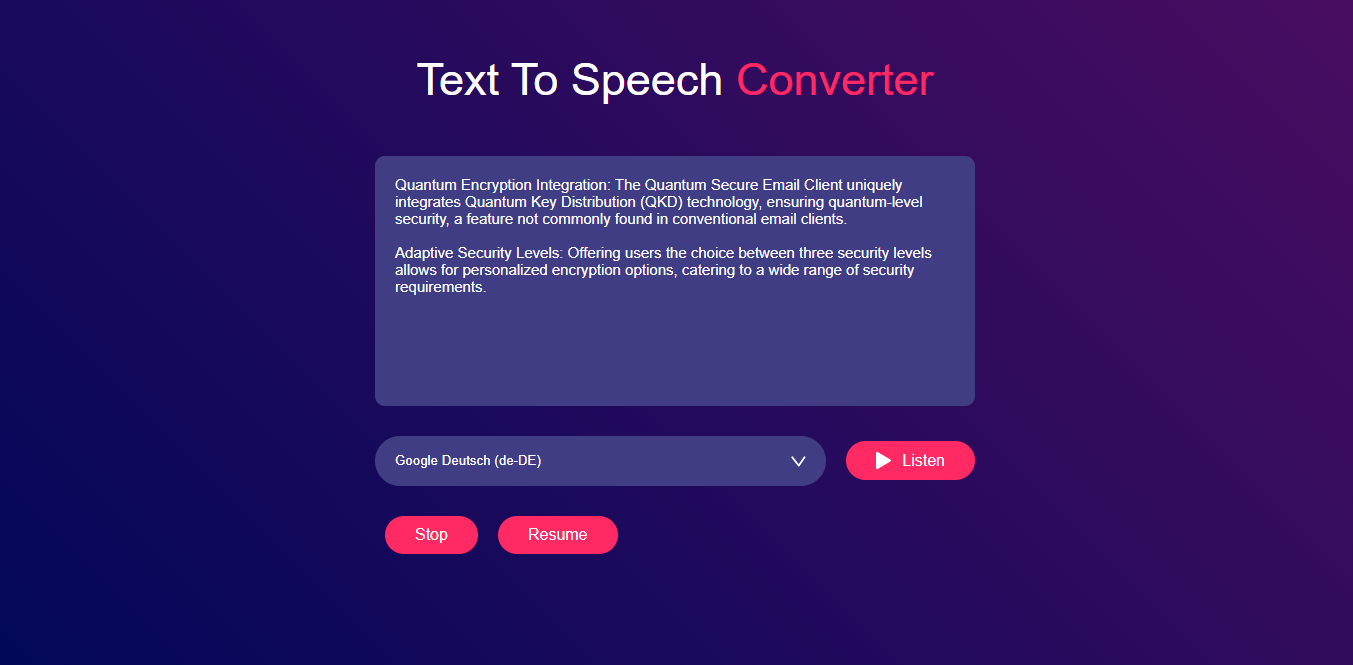
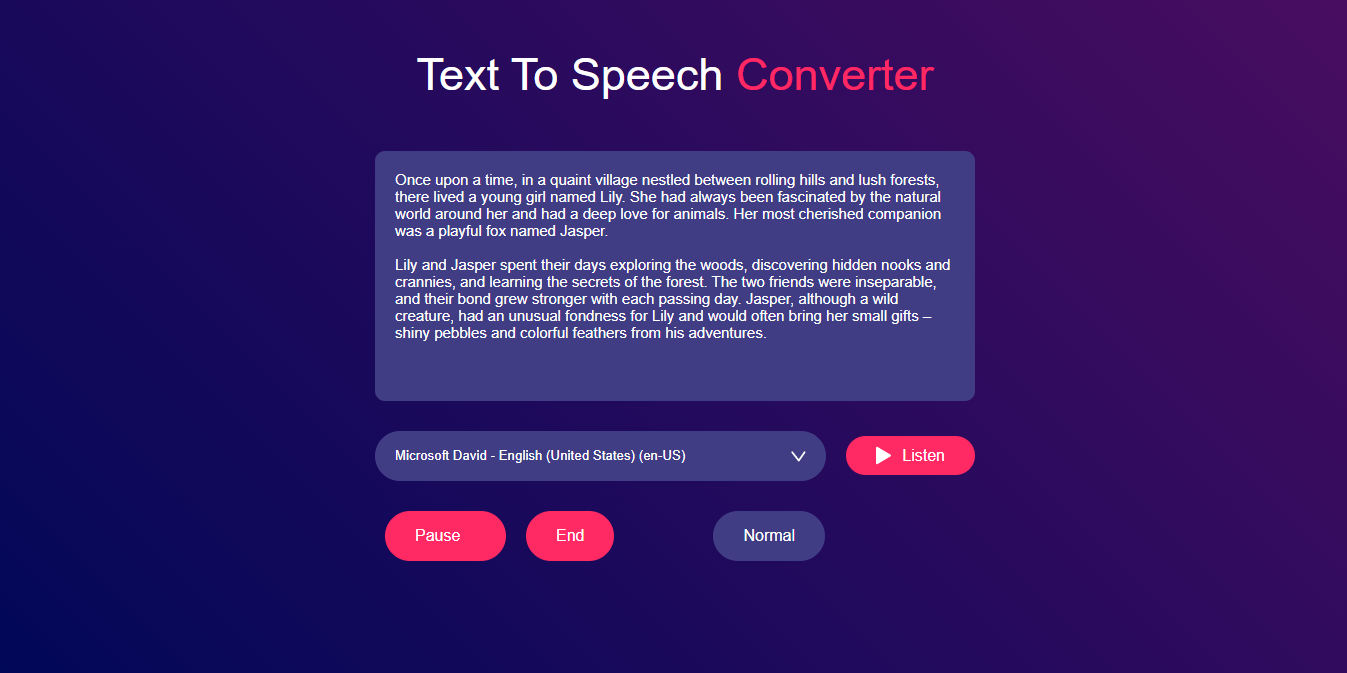
Modify Project 2

diff --git a/Project2/index.js b/Project2/index.js
@@ -4,6 +4,7 @@ const inputTxt = document.querySelector("input");
 const voiceSelect = document.querySelector("select");
 
 let voices;
+let speed = 1;
 
 function loadVoices() {
   voices = synth.getVoices();
@@ -25,23 +26,53 @@ if ("onvoiceschanged" in synth) {
 document.querySelector("button").addEventListener("click", () => {
   console.log("Start playing");
   event.preventDefault();
-
+  document.querySelector(".secondRow").style.zIndex = "1";
   const utterThis = new SpeechSynthesisUtterance(
     document.querySelector("textarea").value
   );
+
+  utterThis.rate = speed;
+
   utterThis.voice = voices[voiceSelect.value];
   synth.speak(utterThis);
   //   document.querySelector("textarea").value.blur();
 });
 
-let stop = document.querySelector("#stop");
-stop.addEventListener("click", (event) => {
-  console.log("Pause");
-  synth.pause();
+let pauseResumeBtn = document.querySelector("#pauseResumeBtn");
+let pause = true;
+pauseResumeBtn.addEventListener("click", (event) => {
+  if (pause) {
+    pauseResumeBtn.innerHTML = "Resume";
+    synth.pause();
+    pause = false;
+  } else {
+    console.log("Pause");
+    pauseResumeBtn.innerHTML = "Pause";
+    synth.resume();
+    pause = true;
+  }
 });
 
-let resume = document.querySelector("#resume");
-resume.addEventListener("click", (event) => {
-  console.log("Resume");
-  synth.resume();
+let endBtn = document.querySelector("#end");
+
+endBtn.addEventListener("click", () => {
+  console.log("end clicked");
+  synth.cancel();
+});
+
+const speedSelect = document.getElementById("speed-select");
+speedSelect.addEventListener("change", () => {
+  speed = speedSelect.value;
+
+  if (synth.speaking) {
+    synth.cancel();
+  }
+  const utterThis = new SpeechSynthesisUtterance(
+    document.querySelector("textarea").value
+  );
+  utterThis.addEventListener("error", () => {
+    console.error("SpeechSynthesisUtterance error");
+  });
+  utterThis.rate = speed;
+  synth.speak(utterThis);
 });

diff --git a/Project2/index.html b/Project2/index.html
@@ -5,6 +5,7 @@
     <meta name="viewport" content="width=device-width, initial-scale=1.0" />
     <title>Text To Speech Converter</title>
     <link rel="stylesheet" href="style.css" />
+    <link rel="shortcut icon" href="/images/favicon.ico" type="image/x-icon" />
   </head>
   <body>
     <div class="hero">
@@ -15,10 +16,23 @@
         <button><img src="images/play.png" alt="" srcset="" /> Listen</button>
       </div>
       <div class="secondRow">
-        <button id="stop">Stop</button>
-        <button id="resume">Resume</button>
+        <button id="pauseResumeBtn">Pause</button>
+        <button id="end">End</button>
+        <!-- <button id="speedButton"></button> -->
+        <div class="speed-control">
+          <select id="speed-select">
+            <option value="0.5">0.25x</option>
+            <option value="0.5">0.5x</option>
+            <option value="1" selected>Normal</option>
+            <option value="1.5">1.5x</option>
+            <option value="2">2x</option>
+          </select>
+        </div>
       </div>
     </div>
+    <h1 id="error">
+      This app is not available for your device. Please use it on Desktop
+    </h1>
     <script src="index.js"></script>
   </body>
 </html>

diff --git a/Project2/style.css b/Project2/style.css
@@ -95,26 +95,48 @@ select {
   display: flex;
   margin-top: 20px;
   width: 600px;
+
+  z-index: -1;
 }
 
 .secondRow button {
   margin: 10px;
 }
 
-@media screen and (max-width: 768px) {
+#speed-select {
+  margin: 10px;
+  background: #403d84;
+  margin-left: 89px;
+  color: white;
+  font-size: 16px;
+  padding: 10px 30px;
+  border-radius: 35px;
+  border: 0;
+  outline: 0;
+  cursor: pointer;
+  display: flex;
+  align-items: center;
+}
+
+#pauseResumeBtn {
+  min-width: 121px;
+}
+
+#error {
+  display: none;
+}
+
+@media screen and (max-width: 568px) {
   .hero {
-    width: 100%;
-    min-height: 100vh;
+    display: none;
   }
-  .hero h1 {
-    font-size: 30px;
+
+  #error {
+    margin-top: 100px;
+    display: block;
+    font-size: 35px;
+    font-weight: 500;
     text-align: center;
-    margin-top: 20px;
-  }
-  textarea {
-    width: 80%;
-  }
-  .row {
-    flex-direction: column;
+    padding: 30px;
   }
 }
